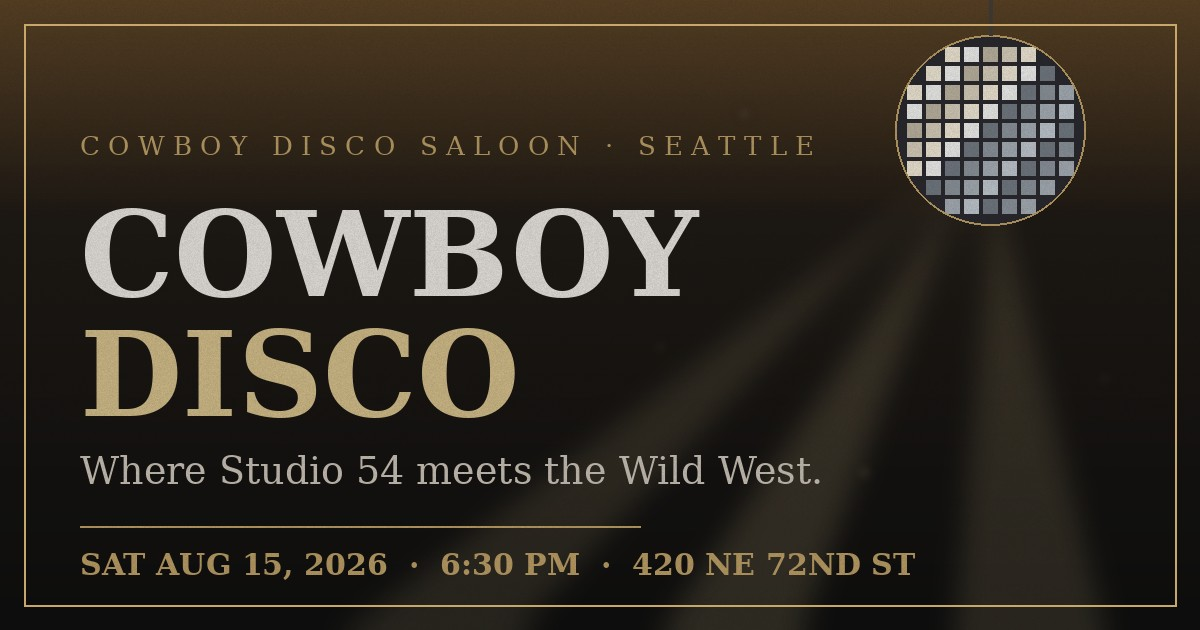
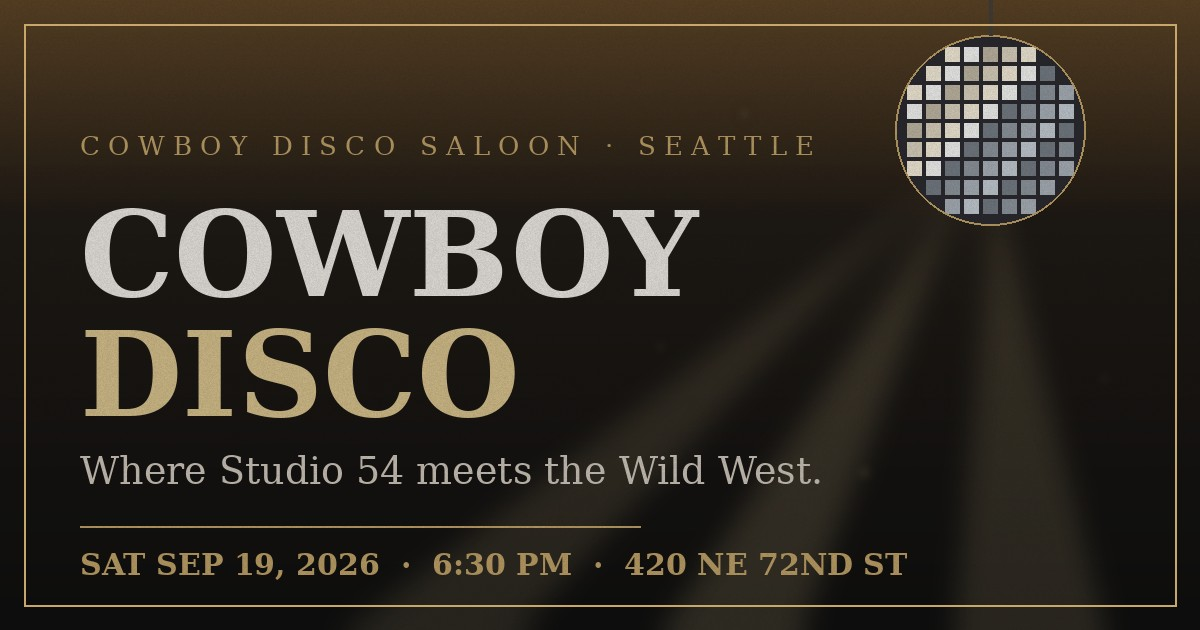
Move party date to Saturday, September 19, 2026
- Update every date reference: config timestamps (party start/end, vote
  close), JSON-LD, OG/Twitter/title meta, hero, schedule, brand lockups,
  footers, invite pages, calendar .ics, API vote-close fallback, README,
  and all print-asset generator scripts. The poll page's existing
  'Saturday, August 15' next-party date option is intentionally kept.
- Move the sunset schedule row from 8:58 PM to 7:08 PM (Seattle sunset
  for Sep 19) and reorder it before ice breakers.
- Regenerate dated assets: poster, menu PDF, invite/schedule cards,
  party-kit PDF, and the OG share card.
- Add a stock-photo guard to generate-premium-editorial.py so full runs
  regenerate only illustration assets (photobooth, highlights, OG card)
  and never overwrite the Unsplash set.
- Bump service worker cache to v24.

https://claude.ai/code/session_01RQxgPetRB2BNnArUaiFyPr

Changed region(s): [[0.1233, 0.8746, 0.7708, 0.9349]]

diff --git a/index.html b/index.html
@@ -3,18 +3,18 @@
 <head>
   <meta charset="UTF-8">
   <meta name="viewport" content="width=device-width, initial-scale=1.0">
-  <meta name="description" content="Cowboy Disco Party — where Studio 54 meets the Wild West. Aug 15, 2026 · Cowboy Disco Saloon, Seattle.">
+  <meta name="description" content="Cowboy Disco Party — where Studio 54 meets the Wild West. Sep 19, 2026 · Cowboy Disco Saloon, Seattle.">
   <meta name="theme-color" content="#0D0D0D">
   <meta property="og:type" content="website">
-  <meta property="og:title" content="Cowboy Disco Party | Aug 15, 2026">
-  <meta property="og:description" content="You're invited — country, disco, and rhinestone under the mirror ball. Aug 15, 2026 at the Cowboy Disco Saloon, Seattle.">
+  <meta property="og:title" content="Cowboy Disco Party | Sep 19, 2026">
+  <meta property="og:description" content="You're invited — country, disco, and rhinestone under the mirror ball. Sep 19, 2026 at the Cowboy Disco Saloon, Seattle.">
   <meta property="og:url" content="https://cowboy-disco-party.vercel.app/">
   <meta property="og:image" content="https://cowboy-disco-party.vercel.app/assets/og-card.jpg">
   <meta name="twitter:card" content="summary_large_image">
-  <meta name="twitter:title" content="Cowboy Disco Party | Aug 15, 2026">
+  <meta name="twitter:title" content="Cowboy Disco Party | Sep 19, 2026">
   <meta name="twitter:description" content="Boots, bling, and two-step under the mirror ball. Games, photo gallery, and party info.">
   <meta name="twitter:image" content="https://cowboy-disco-party.vercel.app/assets/og-card.jpg">
-  <title>Cowboy Disco Party | Aug 15, 2026</title>
+  <title>Cowboy Disco Party | Sep 19, 2026</title>
   <link rel="canonical" href="https://cowboy-disco-party.vercel.app/">
   <link rel="manifest" href="manifest.json">
   <link rel="stylesheet" href="css/fonts.css">
@@ -31,8 +31,8 @@
     "@type": "SocialEvent",
     "name": "Cowboy Disco Party",
     "description": "Where Studio 54 meets the Wild West — country, disco, and rhinestone under the mirror ball.",
-    "startDate": "2026-08-15T18:30:00-07:00",
-    "endDate": "2026-08-15T22:00:00-07:00",
+    "startDate": "2026-09-19T18:30:00-07:00",
+    "endDate": "2026-09-19T22:00:00-07:00",
     "eventStatus": "https://schema.org/EventScheduled",
     "eventAttendanceMode": "https://schema.org/OfflineEventAttendanceMode",
     "image": ["https://cowboy-disco-party.vercel.app/assets/og-card.jpg"],
@@ -64,7 +64,7 @@
         <img class="brand-lockup__mark" src="/assets/brand-mark.svg" width="40" height="40" alt="">
         <span class="brand-lockup__text">
           <span class="brand-lockup__name">Cowboy Disco Party</span>
-          <span class="brand-lockup__sub">Aug 15, 2026</span>
+          <span class="brand-lockup__sub">Sep 19, 2026</span>
         </span>
       </a>
       <button class="nav__toggle" type="button" aria-expanded="false" aria-controls="nav-menu" aria-label="Open menu">
@@ -129,7 +129,7 @@
           <p class="hero__eyebrow-premium">Cowboy Disco Saloon · Seattle</p>
           <h1 class="hero__headline">Cowboy Disco</h1>
           <p class="hero__subhead">Where Studio 54 meets the Wild West.</p>
-          <p class="hero__meta">Saturday, August 15, 2026 · Doors 6:30 PM</p>
+          <p class="hero__meta">Saturday, September 19, 2026 · Doors 6:30 PM</p>
           <p class="hero__status is-hidden" id="hero-status" aria-live="polite"></p>
           <p class="hero__tagline is-hidden" id="hero-tagline" hidden aria-hidden="true"></p>
           <p class="hero__eyebrow is-hidden" id="hero-eyebrow" hidden aria-hidden="true"></p>
@@ -145,7 +145,7 @@
 
           <div class="date-tbd is-hidden" id="date-tbd" aria-live="polite">
             <span class="date-tbd__label">Party Countdown</span>
-            <p class="date-tbd__hint">See you Saturday, August 15, 2026 at 6:30 PM — saddle up now.</p>
+            <p class="date-tbd__hint">See you Saturday, September 19, 2026 at 6:30 PM — saddle up now.</p>
           </div>
 
           <div class="countdown" aria-live="polite" aria-label="Countdown to the party">
@@ -200,7 +200,7 @@
             Where the <span class="grad-cosmos">saloon</span> meets the <span class="grad-frontier">mirror ball</span>.
           </h2>
           <p class="cosmic-intro__body">
-            Saturday, August 15, 2026 at the Cowboy Disco Saloon — an evening where country two-step and disco hustle
+            Saturday, September 19, 2026 at the Cowboy Disco Saloon — an evening where country two-step and disco hustle
             share the same dance floor. Champagne gold, rhinestone, and chrome sparkle under the Seattle skyline from
             6:30 PM to last call.
           </p>
@@ -246,13 +246,13 @@
         <header class="section__header">
           <p class="section__eyebrow">The Event</p>
           <h2>Party Details</h2>
-          <p>Saturday, August 15, 2026 — doors at 6:30 PM at the Cowboy Disco Saloon.</p>
+          <p>Saturday, September 19, 2026 — doors at 6:30 PM at the Cowboy Disco Saloon.</p>
         </header>
         <div class="details-grid">
           <article class="detail-card">
             <p class="detail-card__num" aria-hidden="true">01</p>
             <h3>When</h3>
-            <p><strong>August 15, 2026</strong></p>
+            <p><strong>September 19, 2026</strong></p>
             <p>Doors open <strong>6:30 PM</strong> · last call on the dance floor by 10:00 PM</p>
             <p><a class="btn btn--ghost btn--compact" href="/assets/cowboy-disco-party.ics" download="cowboy-disco-party.ics">Add to Calendar</a></p>
           </article>
@@ -281,7 +281,7 @@
         </header>
         <div class="schedule-wrap">
           <table class="schedule-table">
-            <caption class="schedule-table__caption">Party schedule — Aug 15, 2026</caption>
+            <caption class="schedule-table__caption">Party schedule — Sep 19, 2026</caption>
             <thead>
               <tr>
                 <th scope="col">Day</th>
@@ -291,47 +291,47 @@
             </thead>
             <tbody>
               <tr>
-                <td>Aug 15, 2026</td>
+                <td>Sep 19, 2026</td>
                 <td>6:30 PM</td>
                 <td>Party Start <span class="schedule-table__note">(country &amp; disco on the speakers)</span></td>
               </tr>
               <tr>
-                <td>Aug 15, 2026</td>
+                <td>Sep 19, 2026</td>
+                <td>7:08 PM</td>
+                <td>Sunset</td>
+              </tr>
+              <tr>
+                <td>Sep 19, 2026</td>
                 <td>7:30 PM</td>
                 <td><a href="ice-breaker.html">Ice Breakers</a></td>
               </tr>
               <tr>
-                <td>Aug 15, 2026</td>
+                <td>Sep 19, 2026</td>
                 <td>8:15 PM</td>
                 <td><a href="ice-breaker.html">Warm-Up Round</a> <span class="schedule-table__note">(shuffle the deck)</span></td>
               </tr>
               <tr>
-                <td>Aug 15, 2026</td>
+                <td>Sep 19, 2026</td>
                 <td>8:30 PM</td>
                 <td><a href="vote.html">Outfit Contest</a> <span class="schedule-table__note">(vote by number)</span></td>
               </tr>
               <tr>
-                <td>Aug 15, 2026</td>
+                <td>Sep 19, 2026</td>
                 <td>8:35 PM</td>
                 <td><a href="gallery.html">Group Photo</a></td>
               </tr>
               <tr>
-                <td>Aug 15, 2026</td>
-                <td>8:58 PM</td>
-                <td>Sunset</td>
-              </tr>
-              <tr>
-                <td>Aug 15, 2026</td>
+                <td>Sep 19, 2026</td>
                 <td>9:00 PM</td>
                 <td><a href="vote.html">Voting Closes</a> <span class="schedule-table__note">(best outfit)</span></td>
               </tr>
               <tr>
-                <td>Aug 15, 2026</td>
+                <td>Sep 19, 2026</td>
                 <td>9:05 PM</td>
                 <td><a href="vote.html">Best Outfit Winner</a></td>
               </tr>
               <tr class="schedule-table__end">
-                <td>Aug 15, 2026</td>
+                <td>Sep 19, 2026</td>
                 <td>10:00 PM</td>
                 <td>Party Ends</td>
               </tr>
@@ -790,7 +790,7 @@
         <a href="poll.html">Next Party</a>
       </nav>
       <div class="footer-premium__credits">
-        <span>Aug 15, 2026 · 6:30 PM · Cowboy Disco Saloon</span>
+        <span>Sep 19, 2026 · 6:30 PM · Cowboy Disco Saloon</span>
         <span>© Cowboy Disco Party</span>
         <span class="footer-premium__photo-credit">Editorial photography via <a href="https://unsplash.com" rel="noopener noreferrer">Unsplash</a></span>
       </div>

diff --git a/js/config.js b/js/config.js
@@ -5,7 +5,7 @@
     BRAND_NAME: "Cowboy Disco Party",
     BRAND_VENUE: "Cowboy Disco Saloon",
     BRAND_TAGLINE: "Where Studio 54 meets the Wild West — rhinestone, mirror-ball light, and two-step under the Seattle skyline.",
-    BRAND_DATE_LABEL: "Aug 15, 2026 · 6:30 PM",
+    BRAND_DATE_LABEL: "Sep 19, 2026 · 6:30 PM",
     SITE_URL: "https://cowboy-disco-party.vercel.app",
     // Partiful event page — set to the full event URL (e.g. "https://partiful.com/e/XXXX")
     // to reveal "RSVP on Partiful" buttons sitewide. Leave empty to keep them hidden.
@@ -14,13 +14,13 @@
     // "Hear the Party Playlist" button in the schedule section.
     SPOTIFY_PLAYLIST_URL: "",
     PARTY_DATE_TBD: false,
-    PARTY_DATE: "2026-08-15T18:30:00-07:00",
-    PARTY_END: "2026-08-15T22:00:00-07:00",
-    VOTE_CLOSE_TIME: "2026-08-15T21:00:00-07:00",
+    PARTY_DATE: "2026-09-19T18:30:00-07:00",
+    PARTY_END: "2026-09-19T22:00:00-07:00",
+    VOTE_CLOSE_TIME: "2026-09-19T21:00:00-07:00",
     VOTE_MAX_NUMBER: 99,
     VOTE_TAG_COUNT: 30,
     SHARE_MESSAGE:
-      "You're invited to Cowboy Disco — where Studio 54 meets the Wild West. Saturday, Aug 15, 2026 at 6:30 PM · Cowboy Disco Saloon, 420 NE 72nd St, Seattle. RSVP, calendar, photos & votes: https://cowboy-disco-party.vercel.app",
+      "You're invited to Cowboy Disco — where Studio 54 meets the Wild West. Saturday, Sep 19, 2026 at 6:30 PM · Cowboy Disco Saloon, 420 NE 72nd St, Seattle. RSVP, calendar, photos & votes: https://cowboy-disco-party.vercel.app",
     OG_IMAGE: "https://cowboy-disco-party.vercel.app/assets/og-card.jpg",
   };
 })(window);

diff --git a/invite.html b/invite.html
@@ -36,7 +36,7 @@
       <section class="host-block">
         <h2>Details to mention</h2>
         <ul class="location-tips">
-          <li><strong>When:</strong> Saturday, August 15, 2026 · 6:30 PM</li>
+          <li><strong>When:</strong> Saturday, September 19, 2026 · 6:30 PM</li>
           <li><strong>Where:</strong> 420 NE 72nd St, Seattle — Cowboy Disco Saloon</li>
           <li><strong>Dress:</strong> Western glamour — champagne gold, white boots, rhinestones, and chrome sparkle</li>
           <li><strong>Site:</strong> Photos, ice breakers, vote, directions, menu</li>
@@ -54,7 +54,7 @@
       var site = config.SITE_URL || "https://cowboy-disco-party.vercel.app";
       var message =
         config.SHARE_MESSAGE ||
-        ("Cowboy Disco Party — Aug 15, 2026! Boots and bling encouraged. " + site);
+        ("Cowboy Disco Party — Sep 19, 2026! Boots and bling encouraged. " + site);
 
       var body = document.getElementById("invite-body");
       var status = document.getElementById("invite-status");

diff --git a/gallery.html b/gallery.html
@@ -35,7 +35,7 @@
         <img class="brand-lockup__mark" src="/assets/brand-mark.svg" width="40" height="40" alt="">
         <span class="brand-lockup__text">
           <span class="brand-lockup__name">Cowboy Disco Party</span>
-          <span class="brand-lockup__sub">Aug 15, 2026</span>
+          <span class="brand-lockup__sub">Sep 19, 2026</span>
         </span>
       </a>
       <button class="nav__toggle" type="button" aria-expanded="false" aria-controls="nav-menu" aria-label="Open menu">
@@ -175,7 +175,7 @@
         <a href="poll.html">Next Party</a>
       </nav>
       <div class="footer-premium__credits">
-        <span>Aug 15, 2026 · 6:30 PM · Cowboy Disco Saloon</span>
+        <span>Sep 19, 2026 · 6:30 PM · Cowboy Disco Saloon</span>
         <span>© Cowboy Disco Party</span>
         <span class="footer-premium__photo-credit">Editorial photography via <a href="https://unsplash.com" rel="noopener noreferrer">Unsplash</a></span>
       </div>

diff --git a/ice-breaker.html b/ice-breaker.html
@@ -32,7 +32,7 @@
         <img class="brand-lockup__mark" src="/assets/brand-mark.svg" width="40" height="40" alt="">
         <span class="brand-lockup__text">
           <span class="brand-lockup__name">Cowboy Disco Party</span>
-          <span class="brand-lockup__sub">Aug 15, 2026</span>
+          <span class="brand-lockup__sub">Sep 19, 2026</span>
         </span>
       </a>
       <button class="nav__toggle" type="button" aria-expanded="false" aria-controls="nav-menu" aria-label="Open menu">
@@ -115,7 +115,7 @@
         <a href="poll.html">Next Party</a>
       </nav>
       <div class="footer-premium__credits">
-        <span>Aug 15, 2026 · 6:30 PM · Cowboy Disco Saloon</span>
+        <span>Sep 19, 2026 · 6:30 PM · Cowboy Disco Saloon</span>
         <span>© Cowboy Disco Party</span>
         <span class="footer-premium__photo-credit">Editorial photography via <a href="https://unsplash.com" rel="noopener noreferrer">Unsplash</a></span>
       </div>

diff --git a/poll.html b/poll.html
@@ -32,7 +32,7 @@
         <img class="brand-lockup__mark" src="/assets/brand-mark.svg" width="40" height="40" alt="">
         <span class="brand-lockup__text">
           <span class="brand-lockup__name">Cowboy Disco Party</span>
-          <span class="brand-lockup__sub">Aug 15, 2026</span>
+          <span class="brand-lockup__sub">Sep 19, 2026</span>
         </span>
       </a>
       <button class="nav__toggle" type="button" aria-expanded="false" aria-controls="nav-menu" aria-label="Open menu">
@@ -223,7 +223,7 @@
         <a href="poll.html">Next Party</a>
       </nav>
       <div class="footer-premium__credits">
-        <span>Aug 15, 2026 · 6:30 PM · Cowboy Disco Saloon</span>
+        <span>Sep 19, 2026 · 6:30 PM · Cowboy Disco Saloon</span>
         <span>© Cowboy Disco Party</span>
         <span class="footer-premium__photo-credit">Editorial photography via <a href="https://unsplash.com" rel="noopener noreferrer">Unsplash</a></span>
       </div>

diff --git a/vote.html b/vote.html
@@ -35,7 +35,7 @@
         <img class="brand-lockup__mark" src="/assets/brand-mark.svg" width="40" height="40" alt="">
         <span class="brand-lockup__text">
           <span class="brand-lockup__name">Cowboy Disco Party</span>
-          <span class="brand-lockup__sub">Aug 15, 2026</span>
+          <span class="brand-lockup__sub">Sep 19, 2026</span>
         </span>
       </a>
       <button class="nav__toggle" type="button" aria-expanded="false" aria-controls="nav-menu" aria-label="Open menu">
@@ -150,7 +150,7 @@
         <a href="poll.html">Next Party</a>
       </nav>
       <div class="footer-premium__credits">
-        <span>Aug 15, 2026 · 6:30 PM · Cowboy Disco Saloon</span>
+        <span>Sep 19, 2026 · 6:30 PM · Cowboy Disco Saloon</span>
         <span>© Cowboy Disco Party</span>
         <span class="footer-premium__photo-credit">Editorial photography via <a href="https://unsplash.com" rel="noopener noreferrer">Unsplash</a></span>
       </div>

diff --git a/js/plan-data.js b/js/plan-data.js
@@ -2,7 +2,7 @@
   "use strict";
 
   global.CDP_PLAN = {
-  "title": "Cowboy Disco Party — August 15, 2026",
+  "title": "Cowboy Disco Party — September 19, 2026",
   "subtitle": "Project plan for the 41st birthday party — Cowboy Disco theme",
   "sourceFile": "Project Plan for the 41st Birthday Party.xlsx",
   "exportedAt": "2026-06-07T18:59:45",
@@ -21,7 +21,7 @@
       "task": "Pick Date",
       "status": "Complete",
       "assigned": "Kyle",
-      "notes": "Saturday, August 15, 2026"
+      "notes": "Saturday, September 19, 2026"
     },
     {
       "id": 3,

diff --git a/invite-card.html b/invite-card.html
@@ -41,7 +41,7 @@
         <p class="phys-invite__title-line phys-invite__title-line--accent">Disco</p>
         <h1 class="phys-invite__title-line">Party</h1>
         <div class="phys-invite__rule" aria-hidden="true"></div>
-        <p class="phys-invite__datetime">Saturday, August 15, 2026</p>
+        <p class="phys-invite__datetime">Saturday, September 19, 2026</p>
         <p class="phys-invite__datetime">6:30 PM</p>
         <p class="phys-invite__tagline">Boots, bling, and two-step under the mirror ball.</p>
         <p class="phys-invite__dress">

diff --git a/schedule-card.html b/schedule-card.html
@@ -34,7 +34,7 @@
           <span class="brand-lockup__sub" style="color: var(--phys-muted);">Cowboy Disco Saloon</span>
         </span>
       </div>
-      <p class="phys-schedule__date">Saturday, August 15, 2026</p>
+      <p class="phys-schedule__date">Saturday, September 19, 2026</p>
       <table class="phys-schedule__table">
         <tbody>
           <tr><td class="phys-schedule__time">6:30 PM</td><td>Doors open · music on</td></tr>

diff --git a/qr.html b/qr.html
@@ -34,7 +34,7 @@
         <canvas class="qr-block__canvas is-hidden" data-size="320" width="320" height="320" aria-hidden="true"></canvas>
       </div>
       <p class="qr-print__url qr-block__url"></p>
-      <p class="qr-print__date">Aug 15, 2026 · 6:30 PM</p>
+      <p class="qr-print__date">Sep 19, 2026 · 6:30 PM</p>
     </div>
 
     <div class="qr-print__actions no-print">

diff --git a/api/_lib/admin.js b/api/_lib/admin.js
@@ -15,7 +15,7 @@ export function verifyAdminCode(request) {
 
 export function getVoteCloseTime() {
   const configured = String(process.env.VOTE_CLOSE_TIME || "").trim();
-  return configured || "2026-08-15T21:00:00-07:00";
+  return configured || "2026-09-19T21:00:00-07:00";
 }
 
 export function isVoteClosed() {
